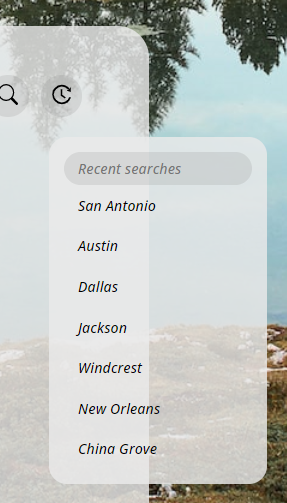
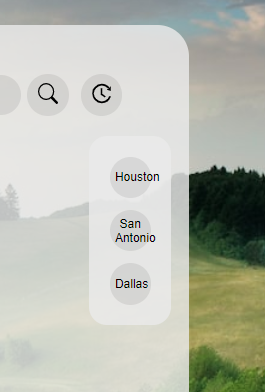
updated search history functionality, as well as 5 day forecast

diff --git a/script.js b/script.js
@@ -50,8 +50,7 @@ let weather = {
     document.querySelector(".humidity").innerText = "Humidity: " + humidity + "%";
     document.querySelector(".wind").innerText = "Wind speed: " + speed + " mph";
     document.querySelector(".weather").classList.remove("loading")
-    //pulls photo from the city searched
-    //document.body.style.backgroundImage = "url('https://source.unsplash.com/1600x900/?" + city + "')"
+    
     },
 
     //forecast data 
@@ -74,14 +73,39 @@ let weather = {
         const temp4= data.list[28].main.temp;
         const temp5= data.list[36].main.temp;
 
+        document.querySelector(".temp1").textContent=temp1;
+        document.querySelector(".temp2").textContent=temp2;
+        document.querySelector(".temp3").textContent=temp3;
+        document.querySelector(".temp4").textContent=temp4;
+        document.querySelector(".temp5").textContent=temp5;
 
     },
-   
+    //save city to local storage
+    savecity: function(newCity) {
+        let allCities = JSON.parse(localStorage.getItem('saved-cities')) || [];
+        allCities.push(newCity);
+        localStorage.setItem('saved-cities', JSON.stringify(allCities))
+        
+    },
+    //display city in search history
+    displayCities: function() {
+        let allCities = JSON.parse(localStorage.getItem('saved-cities'));
+        document.querySelector('.dropdown-content').innerHTML=""
+        allCities.forEach(city => {
+    
+            let cityButton = document.createElement('button');
+            cityButton.textContent = city;
+            document.querySelector('.dropdown-content').appendChild(cityButton);
+        });
+    },
+    
+    
 
    //navigation bar function
     navigation: function () {
     this.pullWeather(document.querySelector(".navigation-bar").value);
-   
+   this.savecity(document.querySelector(".navigation-bar").value);
+   this.displayCities();
     }
  
 };
@@ -105,5 +129,7 @@ document
 
 
 });
+//display search history 
+weather.displayCities();
 
 

diff --git a/index.html b/index.html
@@ -31,13 +31,16 @@
                 <div id="myDropdown" class="dropdown-content">
                   <!--history button drop down content-->
                   <input type="text" placeholder="Recent searches" id="myInput" onkeyup="filterFunction()">
-                  <a href="#about">San Antonio</a>
-                  <a href="#base">Austin</a>
-                  <a href="#blog">Dallas</a>
-                  <a href="#contact">Jackson</a>
-                  <a href="#custom">Windcrest</a>
-                  <a href="#support">New Orleans</a>
-                  <a href="#tools">China Grove</a>
+                  <a href="#about"></a>
+                  <a href="#base"></a>
+                  <a href="#blog"></a>
+                  <a href="#contact"></a>
+                  <a href="#custom"></a>
+                  <a href="#support"></a>
+                  <a href="#tools"></a>
+                  <a href="#custom"></a>
+                  <a href="#support"></a>
+                  <a href="#tools"></a>
                 </div>
               </div>
               
@@ -81,11 +84,11 @@
             <h2 class="forcast"></h2>
             <!--5 day forecast-->
              <h2 class= "5 day forecast">5 Day Forecast</h2>
-                <div class= "day1"><img class="img1"></div>
-                <div class="day2"><img class="img2"></div>
-                <div class="day3"><img class="img3"></div>
-                <div class="day4"><img class="img4"></div>
-                <div class="day5"><img class="img5"></div>
+                <div class= "day1"><img class="img1"><div class= "temp1"></div>
+                <div class="day2"><img class="img2"><div class= "temp2"></div>
+                <div class="day3"><img class="img3"><div class= "temp3"></div>
+                <div class="day4"><img class="img4"><div class= "temp4"></div>
+                <div class="day5"><img class="img5"><div class= "temp5"></div>
                
 
 

diff --git a/style.css b/style.css
@@ -133,3 +133,25 @@ background:#7c7c7c6b
   .dropdown a:hover {background-color: #ddd;}
   
   .show {display: block;}
+
+  .day1 {
+    display: flex;
+    align-items: center;
+  }
+  .day2 {
+    display: flex;
+    align-items: center;
+  }
+  .day3 {
+    display: flex;
+    align-items: center;
+  }
+  .day4 {
+    display: flex;
+    align-items: center;
+  }
+  .day5 {
+    display: flex;
+    align-items: center;
+   
+  }

diff --git a/README.md b/README.md
@@ -5,10 +5,10 @@
 
 
 #### Purpose
-All your weather in one place. see the current weather conditions and well as the 5-day forecast for your area. What to know the weather of a different location? simply search for different city. your resent searches are saved in local storage for you to come back to. 
+All your weather in one place. See the current weather conditions as well as the 5-day forecast for your area. Want to know the weather from a different location? simply search for different a city. Your recent searches are saved in local storage for you to come back to. 
 <img src="./Assets/search.png" alt="Seach bar screen" title="Seach by city">
 <img src="./Assets/history.png" alt="search history" title="recent searches">
-<img src="./Assets/.png" alt="" title="">
+<img src="./Assets/weather.png" alt="Weather screen" title="search weather">
 
 ## Usage
 
@@ -23,6 +23,7 @@ All your weather in one place. see the current weather conditions and well as th
 HTML, 
 CSS,
 JavaScript,
+Bootstrap,
 React Icons (VSC Extension),
 Google Fonts,
 OpenWeathermap.org,
